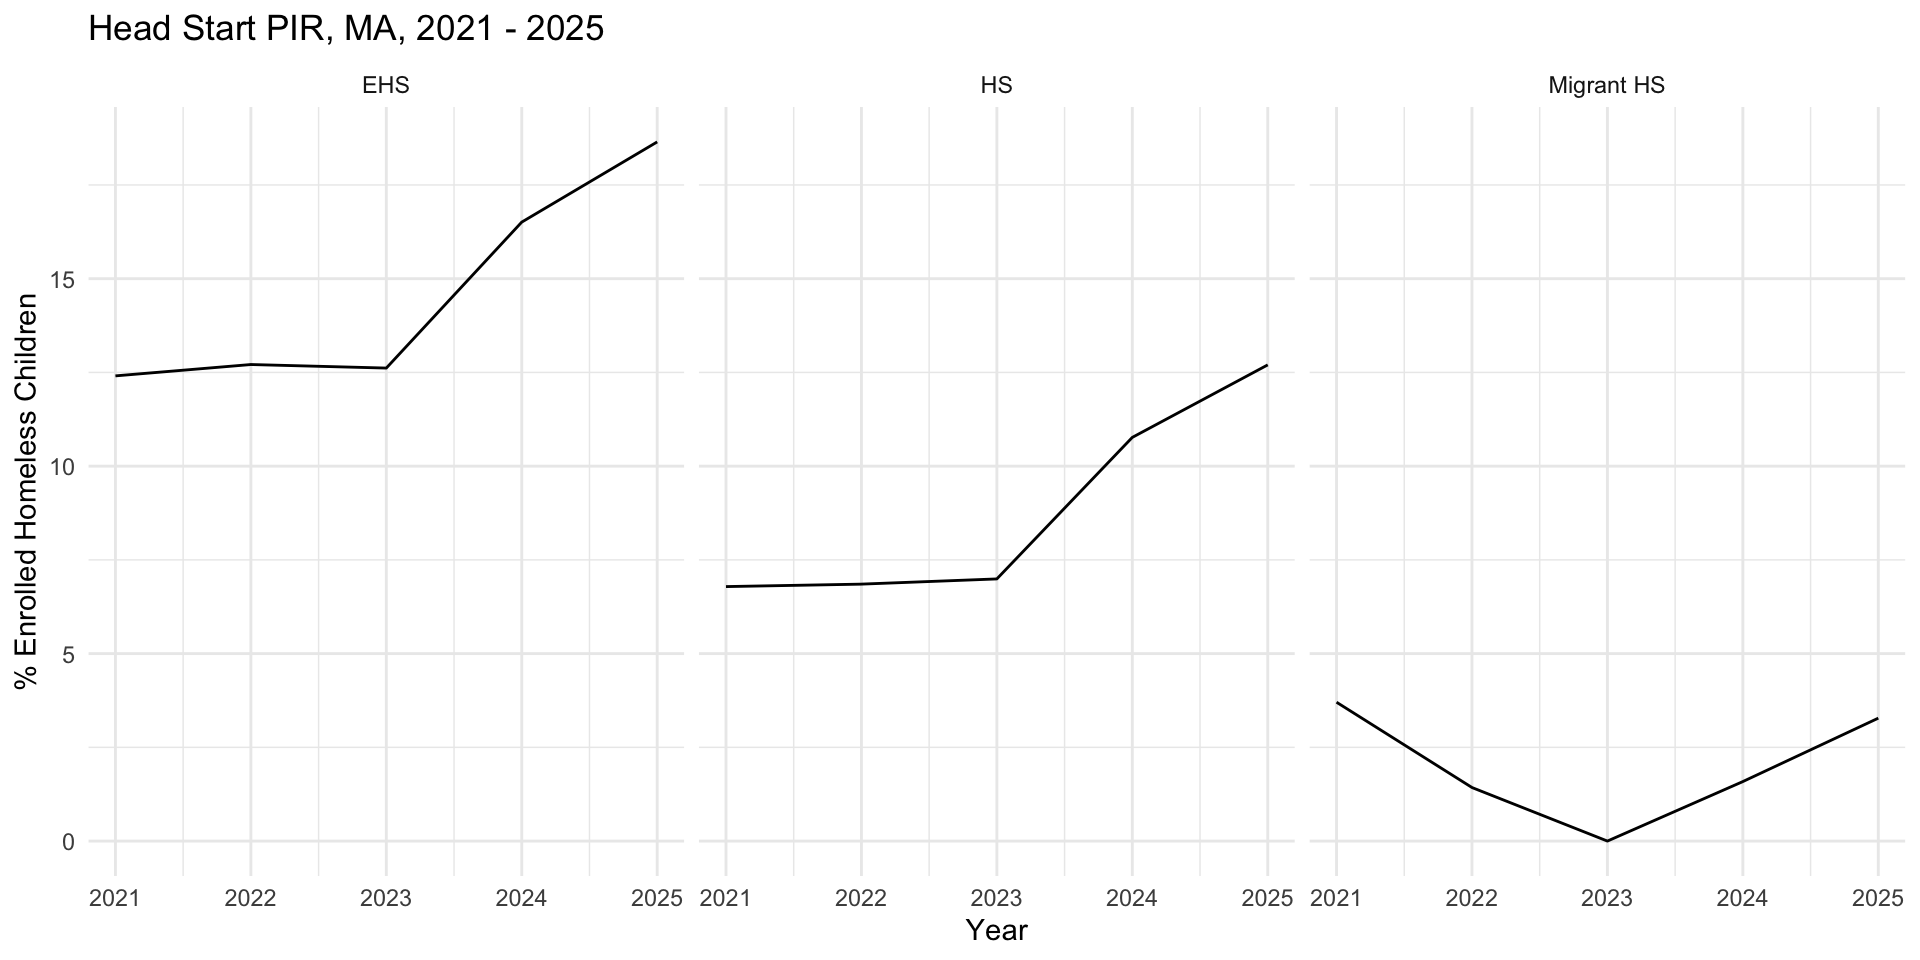
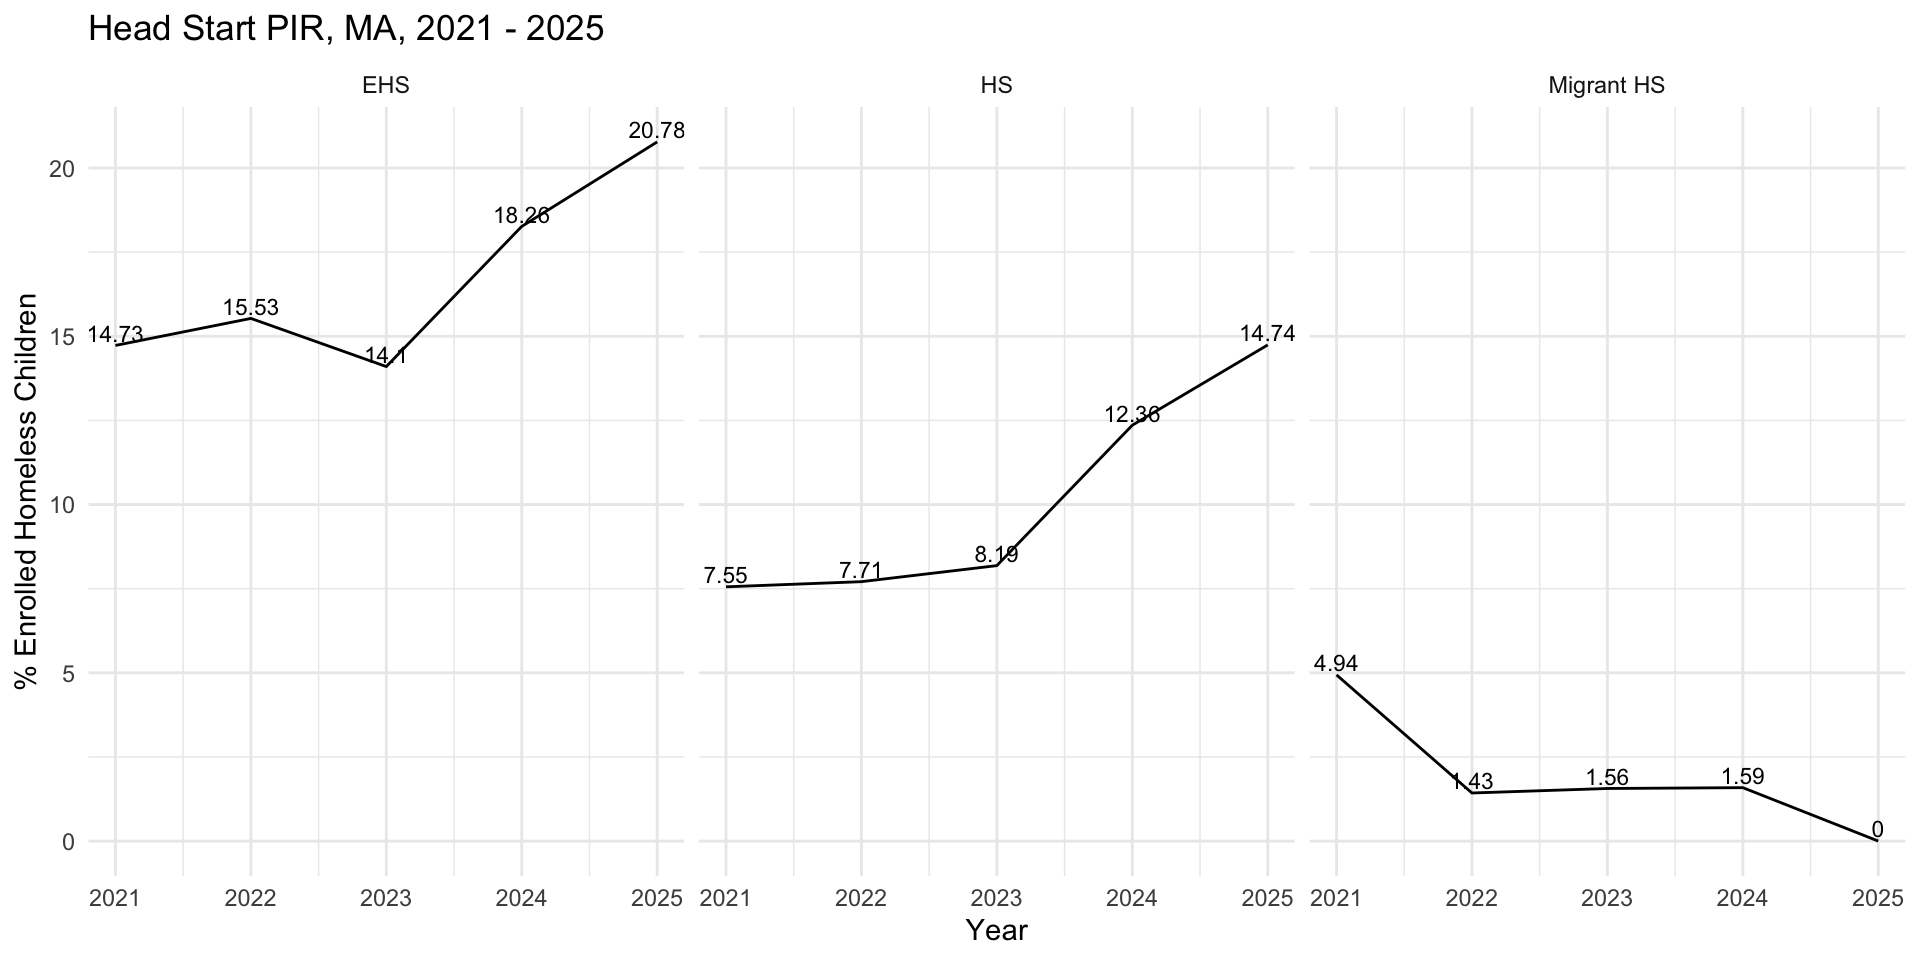
updates

diff --git a/homelessness_brief.html b/homelessness_brief.html
@@ -343,19 +343,87 @@ FILL
 </div>
 
 </section>
-<section class="slide level2">
-
+<section>
+<section id="to-do-rename-column-names-in-source-file-to-ensure-continuity-between-years" class="title-slide slide level1 center">
+<h1>To-do: Rename column names in source file to ensure continuity between years</h1>
 
 <img data-src="homelessness_brief_files/figure-revealjs/unnamed-chunk-2-1.png" width="960" class="r-stretch"></section>
 <section class="slide level2">
 
 
-<img data-src="homelessness_brief_files/figure-revealjs/unnamed-chunk-3-1.png" width="960" class="r-stretch"><div class="quarto-auto-generated-content">
+<img data-src="homelessness_brief_files/figure-revealjs/unnamed-chunk-3-1.png" width="960" class="r-stretch"></section>
+<section class="slide level2">
+
+<div class="cell">
+<div class="cell-output-display">
+<div data-pagedtable="false">
+  <script data-pagedtable-source="" type="application/json">
+{"columns":[{"label":["State"],"name":[1],"type":["chr"],"align":["left"]},{"label":["percent_homeless"],"name":[2],"type":["dbl"],"align":["right"]}],"data":[{"1":"VT","2":"21.78218"},{"1":"ID","2":"19.26353"},{"1":"MT","2":"17.03848"},{"1":"MA","2":"16.27288"},{"1":"WY","2":"16.05680"},{"1":"CO","2":"14.11197"},{"1":"NV","2":"13.58095"},{"1":"UT","2":"13.06117"},{"1":"OR","2":"12.77211"},{"1":"WA","2":"12.34019"}],"options":{"columns":{"min":{},"max":[10]},"rows":{"min":[10],"max":[10]},"pages":{}}}
+  </script>
+</div>
+</div>
+</div>
+</section>
+<section class="slide level2">
+
+<div class="cell">
+<div class="cell-output-display">
+<div>
+<figure>
+<p><img data-src="homelessness_brief_files/figure-revealjs/unnamed-chunk-5-1.png" width="960"></p>
+</figure>
+</div>
+</div>
+</div>
+<div class="cell">
+<div class="cell-output-display">
+<div>
+<figure>
+<p><img data-src="homelessness_brief_files/figure-revealjs/unnamed-chunk-6-1.png" width="960"></p>
+</figure>
+</div>
+</div>
+</div>
+</section>
+<section id="total-homeless-under-five" class="slide level2">
+<h2>Total Homeless Under Five</h2>
+</section>
+<section id="total-homeless-under-five-served-by-head-start" class="slide level2">
+<h2>Total/% Homeless Under Five Served by Head Start</h2>
+</section>
+<section id="overview-of-homeless-counts-from-different-sources" class="slide level2">
+<h2>Overview of Homeless Counts from Different Sources</h2>
+
+<img data-src="homelessness_brief_files/figure-revealjs/unnamed-chunk-9-1.png" width="960" class="r-stretch"></section>
+<section class="slide level2">
+
+<ul>
+<li class="fragment">Shelter type is not reported disaggregated by grade. We took the percentage of K-12 students in each shelter type, each year for each state and multiplied that percentage by the number of homeless children under 5 identified via the Grade 1 proxy method</li>
+</ul>
+<div class="cell">
+<div class="cell-output-display">
+<div>
+<figure>
+<p><img data-src="homelessness_brief_files/figure-revealjs/unnamed-chunk-10-1.png" width="960"></p>
+</figure>
+</div>
+</div>
+</div>
+<div class="cell">
+<div class="cell-output-display">
+<div>
+<figure>
+<p><img data-src="homelessness_brief_files/figure-revealjs/unnamed-chunk-11-1.png" width="960"></p>
+</figure>
+</div>
+</div>
+</div>
+<div class="quarto-auto-generated-content">
 <div class="footer footer-default">
 
 </div>
 </div>
-</section>
+</section></section>
     </div>
   </div>
 
